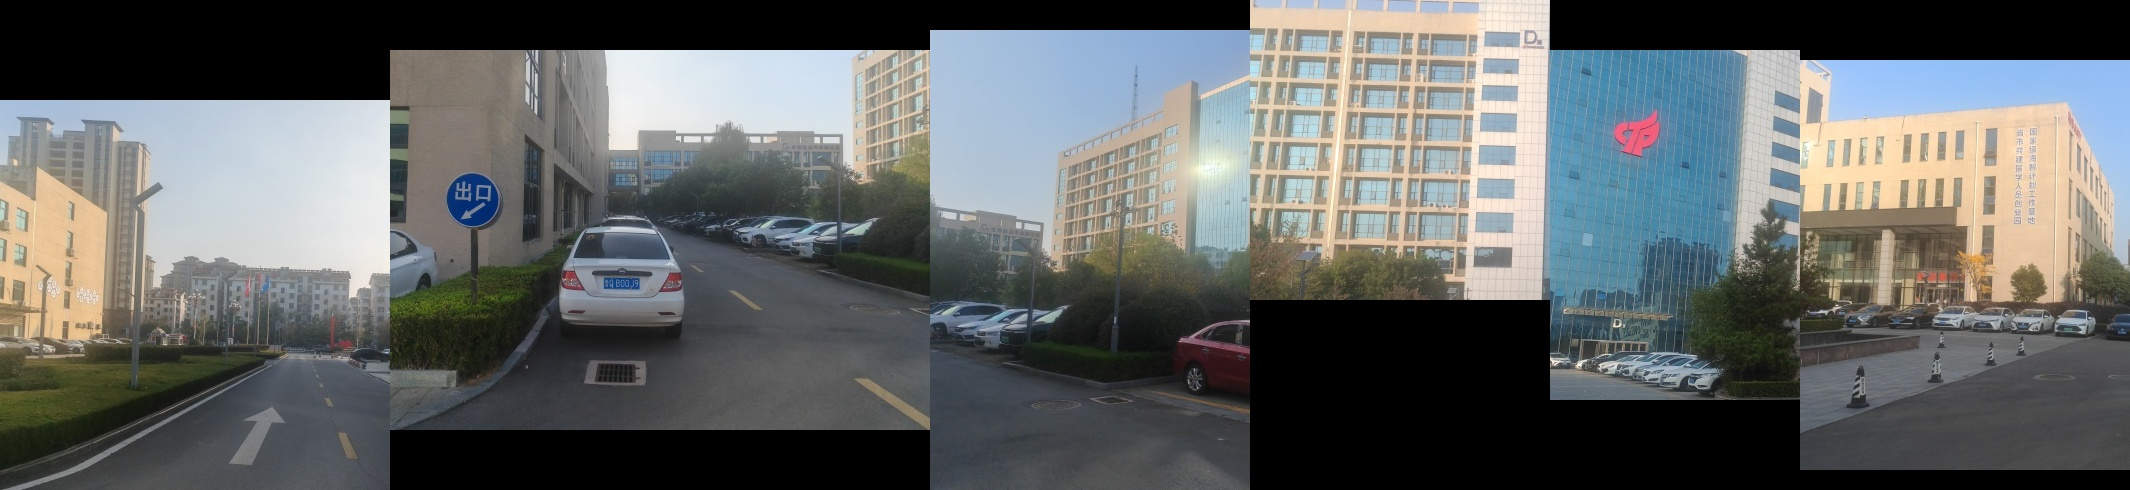
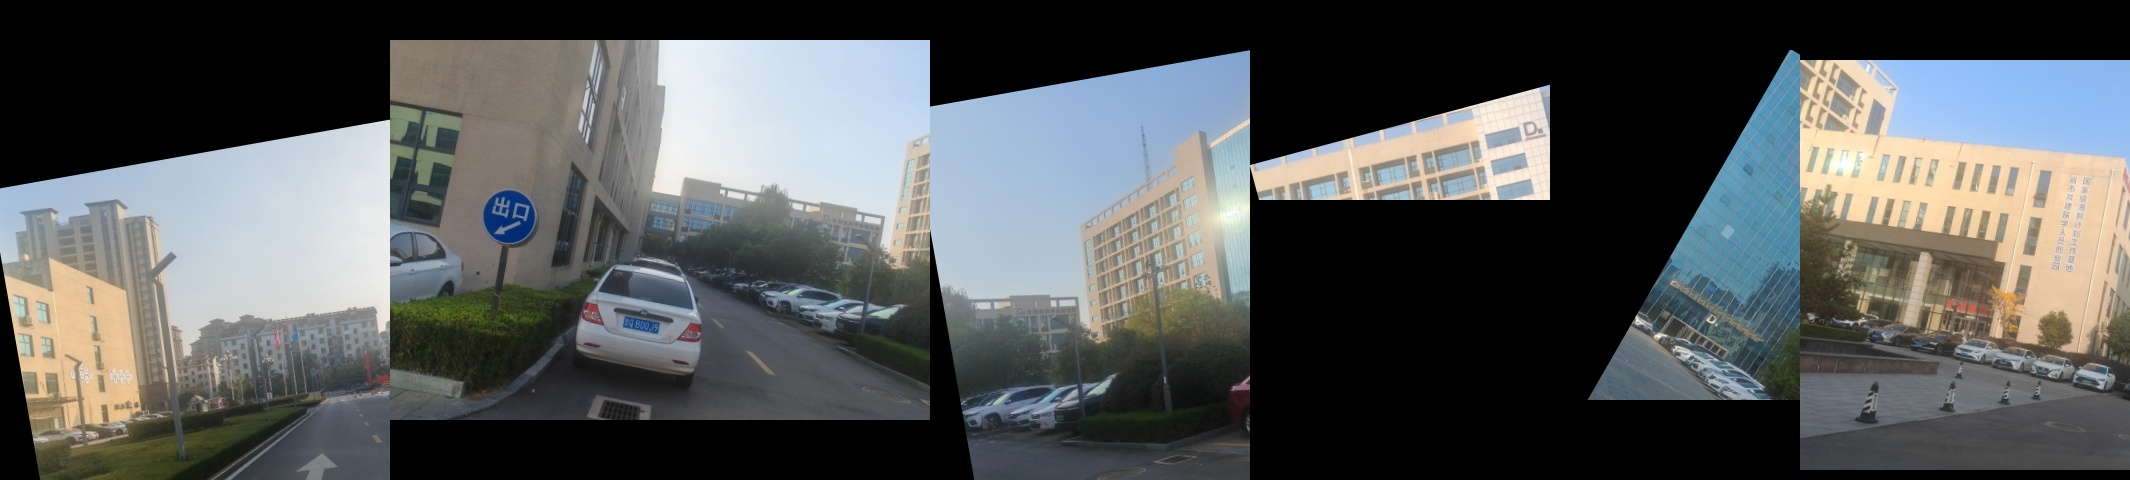
旋转+裁剪硬拼接

diff --git a/include/stitch.cpp b/include/stitch.cpp
@@ -66,8 +66,8 @@ cv::Mat Stitch_Custom::stitch_hard(std::vector<ImgInfo> imginfo_vec) {
     int current_width = 0;
     cv::Mat img_out = cv::Mat::zeros(out_height, out_width, CV_8UC3);
 
-    // std::cout<< "out_height = " << out_height << std::endl;
-    // std::cout<< "out_width = " << out_width << std::endl;
+    std::cout<< "out_height = " << out_height << std::endl;
+    std::cout<< "out_width = " << out_width << std::endl;
 
     int sum_offset_2 = 0;  // 累计偏移量，图片相对于第一张图的偏移量
     for (const auto& imginfo : imginfo_vec) {
@@ -77,15 +77,100 @@ cv::Mat Stitch_Custom::stitch_hard(std::vector<ImgInfo> imginfo_vec) {
         sum_offset_2 += up_offset;
         int rect_top_left_y = max_up_offset_sum - sum_offset_2;
 
-        // std::cout<< "rect_top_left_x = " << rect_top_left_x << std::endl;
-        // std::cout<< "rect_top_left_y = " << rect_top_left_y << std::endl;
-        // std::cout<< " ************ " << std::endl;
+        std::cout<< "rect_top_left_x = " << rect_top_left_x << std::endl;
+        std::cout<< "rect_top_left_y = " << rect_top_left_y << std::endl;
+        std::cout<< " ************ " << std::endl;
 
-        cv::Rect roi_rect = cv::Rect(rect_top_left_x, rect_top_left_y, imginfo.img.cols, imginfo.img.rows);
-        imginfo.img.copyTo(img_out(roi_rect));
+        int w = imginfo.img_crop.cols;
+        int h = imginfo.img_crop.rows;
+        
+        std::cout<< "w = " << w << std::endl;
+        std::cout<< "h = " << h << std::endl;
+
+
+        cv::Rect roi_rect = cv::Rect(rect_top_left_x, rect_top_left_y, imginfo.img_crop.cols, imginfo.img_crop.rows);
+        imginfo.img_crop.copyTo(img_out(roi_rect));
         current_width += imginfo.crop_width;
     }
 
     return img_out;
     //  cv::imshow("img_out", img_out);
+}
+
+cv::Mat Stitch_Custom::rotate(Mat& image, int rotate_angle) {
+	Mat dst, M;
+	int w = image.cols;
+	int h = image.rows;
+    // 获取旋转矩阵        旋转中心   角度   缩放比例 1 
+	M = getRotationMatrix2D(Point(w / 2, h / 2), rotate_angle, 1.0);
+	double cos = abs(M.at<double>(0, 0));
+	double sin = abs(M.at<double>(0, 1));
+	int nw = cos * w + sin * h;
+	int nh = sin * w + cos * h;
+	M.at<double>(0, 2) += (nw / 2 - w / 2);
+	M.at<double>(1, 2) += (nh / 2 - h / 2);
+	//warpAffine(image, dst, M, Size(w, h), INTER_LINEAR, 0, Scalar(255, 0, 0));
+	warpAffine(image, dst, M, Size(nw, nh));
+	// namedWindow("旋转演示", WINDOW_AUTOSIZE);
+	// imshow("旋转演示", dst);
+    // waitKey(0);
+    imwrite("rotat.jpg", dst);
+    return dst;
+}
+
+/*
+图片旋转 + 旋转后裁剪
+*/
+bool Stitch_Custom::rotate(ImgInfo& image_info) {
+	Mat dst, M;
+	int w = image_info.img.cols;
+	int h = image_info.img.rows;
+    // 获取旋转矩阵        旋转中心   角度   缩放比例 1 
+	M = getRotationMatrix2D(Point(w / 2, h / 2), image_info.rotate_angle, 1.0);
+	double cos = abs(M.at<double>(0, 0));
+	double sin = abs(M.at<double>(0, 1));
+	int nw = cos * w + sin * h;
+	int nh = sin * w + cos * h;
+
+	M.at<double>(0, 2) += (nw / 2 - w / 2);
+	M.at<double>(1, 2) += (nh / 2 - h / 2);
+	//warpAffine(image, dst, M, Size(w, h), INTER_LINEAR, 0, Scalar(255, 0, 0));
+	warpAffine(image_info.img, dst, M, Size(nw, nh));
+	// namedWindow("旋转演示", WINDOW_AUTOSIZE);
+	// imshow("旋转演示", dst);
+    // waitKey(0);
+
+    // 图片旋转后裁剪
+    Rect roi(image_info.top_left.x, image_info.top_left.y, image_info.crop_width, image_info.crop_height);
+    // 检查矩形是否超出图像边界
+    if (roi.x + roi.width > dst.cols || roi.y + roi.height > dst.rows) {
+        // throw std::invalid_argument("The ROI is out of the rotate image bounds!");
+        return false;
+    }
+
+    image_info.img_crop = dst(roi).clone();
+    return true;
+    // imwrite("rotat.jpg", dst);
+    // return dst;
+}
+
+bool Stitch_Custom::stitch_rotate(std::vector<ImgInfo> imginfo_vec, cv::Mat& img_result) {
+
+    int count = 0;
+    bool ret;
+    for (auto& imginfo : imginfo_vec) {
+        ret = this->rotate(imginfo);
+        if (!ret) {
+            std::cout<< "图片裁剪区域超出图片边界，定位到图片：" << count+1 << std::endl;
+            return false;
+        } else {
+
+            // char text_name[256];  
+            // sprintf(text_name, "rotate_%d.jpg", count);
+            // cv::imwrite(text_name, imginfo.img_crop);
+        }
+        count++;
+    }
+    img_result = this->stitch_hard(imginfo_vec);
+    return true;
 }

diff --git a/main.cpp b/main.cpp
@@ -10,24 +10,22 @@ using namespace std;
 /* 参数说明
     ImgInfo imginfo(
                 img,         //原始未裁剪图片
-                top_left_x,  // 裁剪位置的左上角 x
-                top_left_y,  // 裁剪位置的左上角 y
-                bottome_right_x, // 裁剪位置的右下角 x
-                bottome_right_y, // 裁剪位置的右下角 y
-                up_offset        // 按顺序，相邻的两张图片中，后面的图片相对于前面图片的上下偏移像素
+				img_crop     // 旋转+裁剪后最终图片
+                top_left_x,  // 旋转后，裁剪位置的左上角 x
+                top_left_y,  // 旋转后，裁剪位置的左上角 y
+                bottome_right_x, // 旋转后，裁剪位置的右下角 x
+                bottome_right_y, // 旋转后，裁剪位置的右下角 y
+                up_offset        // 旋转+裁剪后，按顺序，相邻的两张图片中，后面的图片相对于前面图片的上下偏移像素
                                 向上偏移为正数， 向下偏移为 负数
+				int rotate_angle; // 旋转角度，围绕图片中心旋转，正数为向左旋转，负数为向右旋转
                 );
 
   
 */
 
+cv::Mat stitch_rotate() {
 
-/*
-
-*/
-cv::Mat stitch_v2() {
-
-    string front_path = "./images/resize_10.jpg";       // 前
+	string front_path = "./images/resize_10.jpg";       // 前
     string right_front_path = "./images/resize_12.jpg"; // 右前 
     string right_back_path = "./images/resize_13.jpg";  // 右后
     string back_path = "./images/resize_14.jpg";        // 后 
@@ -50,12 +48,12 @@ cv::Mat stitch_v2() {
 
 
     
-    ImgInfo imginfo_1(img_1, 10, 10, 400, 400, 0);
-    ImgInfo imginfo_2(img_2, 100, 100, 640, 480, 50);
-    ImgInfo imginfo_3(img_3, 20, 20, 340, 480, 20);
-    ImgInfo imginfo_4(img_4, 0, 0, 300, 300, 30);
-    ImgInfo imginfo_5(img_5, 0, 0, 250, 350, -50);
-    ImgInfo imginfo_6(img_6, 70, 70, 400, 480, -10);
+    ImgInfo imginfo_1(img_1, 10, 10, 400, 400, 0, 10);
+    ImgInfo imginfo_2(img_2, 100, 100, 640, 480, 50, -10);
+    ImgInfo imginfo_3(img_3, 20, 20, 340, 480, 20, 10);
+    ImgInfo imginfo_4(img_4, 0, 0, 300, 200, 20, 15);
+    ImgInfo imginfo_5(img_5, 0, 0, 250, 350, -50, -30);
+    ImgInfo imginfo_6(img_6, 70, 70, 400, 480, -10, -10);
 
     std::vector<ImgInfo> imginfo_vec;
 
@@ -66,44 +64,25 @@ cv::Mat stitch_v2() {
     imginfo_vec.push_back(imginfo_5);
     imginfo_vec.push_back(imginfo_6);
 
-    auto  stitch_cls = new Stitch_Custom();
-    cv::Mat result = stitch_cls->stitch_hard(imginfo_vec);
-    imwrite("result.jpg", result);
+	auto  stitch_cls = new Stitch_Custom();
+	cv::Mat result;
+
+    bool ret = stitch_cls->stitch_rotate(imginfo_vec, result);
+
+	if (ret) {
+		imwrite("result.jpg", result);
+	}else {
+		std::cout<< "error, please check" << std::endl;
+		std::exit(EXIT_FAILURE);
+	}
     return result;
 }
-
-void stitch_v1(){
-    // string front_path = "./images/resize_10.jpg";       // 前
-    // string right_front_path = "./images/resize_12.jpg"; // 右前 
-    // string right_back_path = "./images/resize_13.jpg";  // 右后
-    // // string back_path = "./images/resize_14.jpg";        // 后 
-    // // string left_back_path = "./images/resize_15.jpg";   // 左后 
-    // // string left_front_path  = "./images/resize_16.jpg"; // 左前
-
-    // std::vector<cv::Mat> images_vec;     
-
-    // images_vec.push_back(cv::imread(front_path));
-    // images_vec.push_back(cv::imread(right_front_path));
-    // images_vec.push_back(cv::imread(right_back_path));
-    // // images_vec.push_back(cv::imread(back_path));
-    // // images_vec.push_back(cv::imread(left_back_path));
-    // // images_vec.push_back(cv::imread(left_front_path));
-
-    // // images_vec 可以是任意数量的图片，因为是水平拼接，要保证图片的高度一致
-
-    // auto  stitch_cls = new Stitch_Custom();
-    // cv::Mat result = stitch_cls->hconcat(images_vec);
-    // imwrite("result.jpg", result);
-
-}
-
 
 
 int main(int argc, char *argv[])
 {
-    cv::Mat result_mat = stitch_v2();
-
-
+	stitch_rotate();
+    cv::Mat result_mat = stitch_rotate();
     // 以下部分是裁剪拼接的图像部分，如不需要可以注释掉
     // 裁剪坐标不要超过图片边界，否则会报错
     // 裁剪位置的左上角坐标

diff --git a/include/stitch.hpp b/include/stitch.hpp
@@ -18,34 +18,40 @@ using namespace cv;
 
 struct ImgInfo {
     cv::Mat img;
-    cv::Point top_left;      // 左上角坐标
-    cv::Point bottom_right; // 右下角坐标
-    int up_offset;           // 针对上一张图片的位置偏移， 正数为向上偏移，负数为向下偏移
+    cv::Mat img_crop;        // 旋转 + 裁剪后最终 的图片
+    cv::Point top_left;      // 旋转后，裁剪图片的左上角坐标
+    cv::Point bottom_right;  // 旋转后，裁剪图片的右下角坐标
+    int up_offset;           // 针对上一张裁剪图片的位置偏移， 正数为向上偏移，负数为向下偏移
+    int rotate_angle;               // 旋转角度，围绕图片中心旋转， 正数为向左旋转，负数为向右旋转
+    int crop_width;
+    int crop_height;
     
     ImgInfo(cv::Mat& image, 
         int top_left_x, 
         int top_left_y, 
         int bottom_right_x, 
         int bottom_right_y,
-        int up_pixel) {
+        int up_pixel,
+        int angle ) {
             top_left = cv::Point(top_left_x, top_left_y);
             bottom_right =  cv::Point(bottom_right_x, bottom_right_y);
             up_offset = up_pixel;
+            rotate_angle = angle;
             crop_width = bottom_right_x - top_left_x;
             crop_height = bottom_right_y - top_left_y;
+            img = image;
 
-            Rect roi(top_left_x, top_left_y, crop_width, crop_height);
-                // 检查矩形是否超出图像边界
-            if (roi.x + roi.width > image.cols || roi.y + roi.height > image.rows) {
-                throw std::invalid_argument("The ROI is out of the image bounds!");
-            }
+            // Rect roi(top_left_x, top_left_y, crop_width, crop_height);
+
+            // // 检查矩形是否超出图像边界
+            // if (roi.x + roi.width > image.cols || roi.y + roi.height > image.rows) {
+            //     throw std::invalid_argument("The ROI is out of the image bounds!");
+            // }
 
             // img = image;
             // croppedImage, 根据矩形区域创建ROI
-            img = image(roi).clone(); // 使用.clone()创建独立副本
+            // img = image(roi).clone(); // 使用.clone()创建独立副本
         }
-    int crop_width;
-    int crop_height;
 };
 
 class Stitch_Custom {
@@ -63,6 +69,10 @@ class Stitch_Custom {
         cv::Mat hconcat(const vector<Mat>& images);
 
         cv::Mat stitch_hard(std::vector<ImgInfo> imginfo_vec);
+        cv::Mat rotate(Mat& image, int rotate_angle);
+        bool rotate(ImgInfo& image_info);
+
+        bool stitch_rotate(std::vector<ImgInfo> imginfo_vec, cv::Mat& img_result);
 
     public:
  
